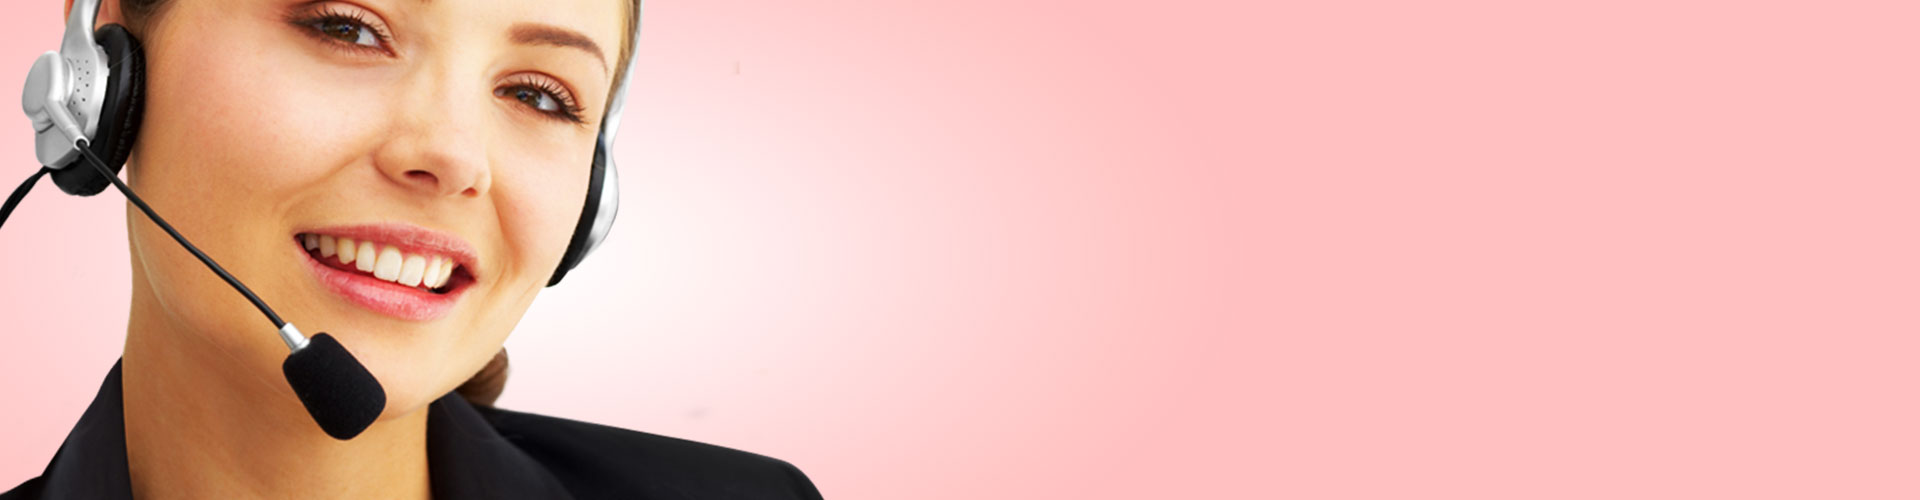
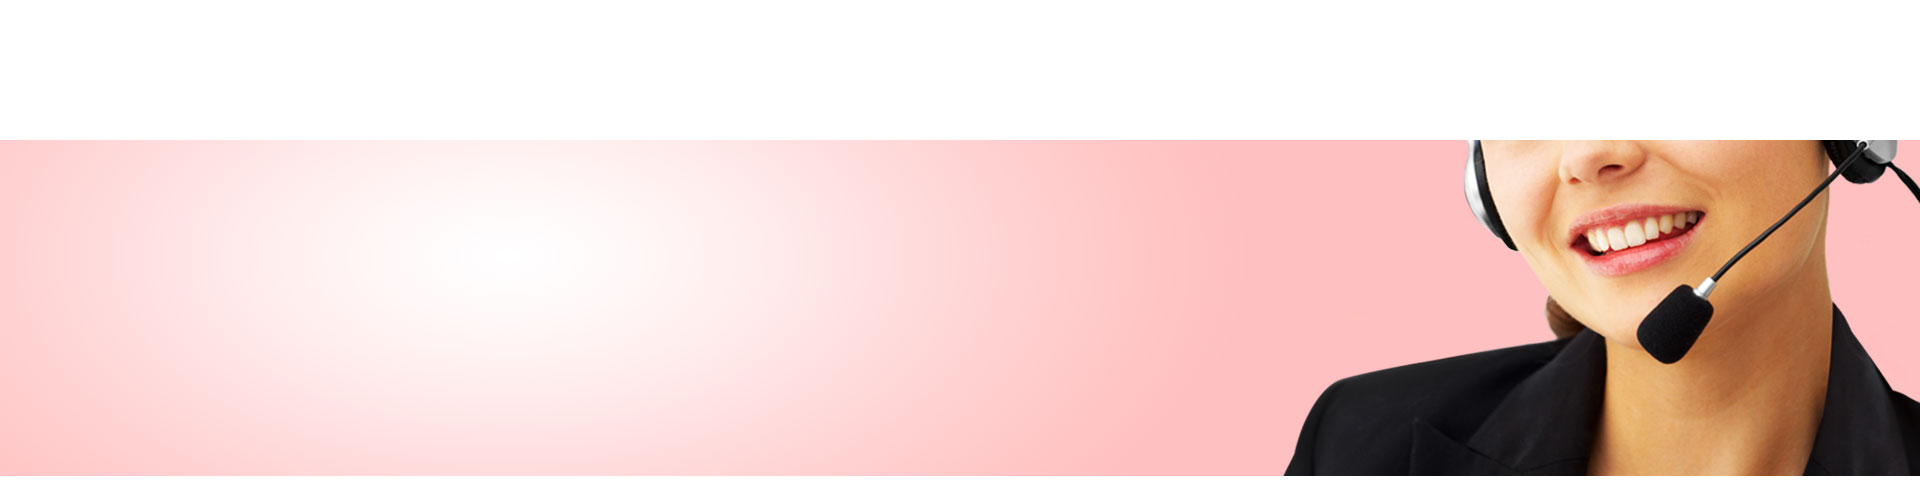
cheves en puerta, i hope, / 8:29 pm

diff --git a/sections/products-earrings.php b/sections/products-earrings.php
@@ -130,6 +130,63 @@
     <a href="images/products/earrings/ar-036.jpg" class="item" title="ar-036">
         <img src="images/products/earrings/ar-036.jpg">
     </a>
+    <a href="images/products/earrings/ar-050.jpg" class="item" title="ar-050">
+        <img src="images/products/earrings/ar-050.jpg">
+    </a>
+    <a href="images/products/earrings/ar-052.jpg" class="item" title="ar-052">
+        <img src="images/products/earrings/ar-052.jpg">
+    </a>
+    <a href="images/products/earrings/ar-054.jpg" class="item" title="ar-054">
+        <img src="images/products/earrings/ar-054.jpg">
+    </a>
+    <a href="images/products/earrings/ar-055.jpg" class="item" title="ar-055">
+        <img src="images/products/earrings/ar-055.jpg">
+    </a>
+    <a href="images/products/earrings/ar-056.jpg" class="item" title="ar-056">
+        <img src="images/products/earrings/ar-056.jpg">
+    </a>
+    <a href="images/products/earrings/ar-057.jpg" class="item" title="ar-057">
+        <img src="images/products/earrings/ar-057.jpg">
+    </a>
+    <a href="images/products/earrings/ar-058.jpg" class="item" title="ar-058">
+        <img src="images/products/earrings/ar-058.jpg">
+    </a>
+    <a href="images/products/earrings/ar-063.jpg" class="item" title="ar-063">
+        <img src="images/products/earrings/ar-063.jpg">
+    </a>
+    <a href="images/products/earrings/ar-063-ar-064.jpg" class="item" title="ar-063-ar-064">
+        <img src="images/products/earrings/ar-063-ar-064.jpg">
+    </a>
+    <a href="images/products/earrings/ar-064.jpg" class="item" title="ar-064">
+        <img src="images/products/earrings/ar-064.jpg">
+    </a>
+    <a href="images/products/earrings/ar-065.jpg" class="item" title="ar-065">
+        <img src="images/products/earrings/ar-065.jpg">
+    </a>
+    <a href="images/products/earrings/ar-071-ar-070-ar-069.jpg" class="item" title="ar-071-ar-070-ar-069">
+        <img src="images/products/earrings/ar-071-ar-070-ar-069.jpg">
+    </a>
+    <a href="images/products/earrings/ar-073.jpg" class="item" title="ar-073">
+        <img src="images/products/earrings/ar-073.jpg">
+    </a>
+    <a href="images/products/earrings/ar-075.jpg" class="item" title="ar-075">
+        <img src="images/products/earrings/ar-075.jpg">
+    </a>
+    <a href="images/products/earrings/ar-076-ar-064.jpg" class="item" title="ar-076-ar-064">
+        <img src="images/products/earrings/ar-076-ar-064.jpg">
+    </a>
+    <a href="images/products/earrings/ar-077.jpg" class="item" title="ar-077">
+        <img src="images/products/earrings/ar-077.jpg">
+    </a>
+    <a href="images/products/earrings/ar-078.jpg" class="item" title="ar-078">
+        <img src="images/products/earrings/ar-078.jpg">
+    </a>
+    <a href="images/products/earrings/ar-080.jpg" class="item" title="ar-080">
+        <img src="images/products/earrings/ar-080.jpg">
+    </a>
+    <a href="images/products/earrings/ar-084.jpg" class="item" title="ar-084">
+        <img src="images/products/earrings/ar-084.jpg">
+    </a>
 	
 </div>
 <div class="clear" style="height:80px;"></div>

diff --git a/sections/products-religious.php b/sections/products-religious.php
@@ -2,7 +2,7 @@
 <link rel="stylesheet" href="css/salvattore.css">
 
 <script src="js/parallax.js"></script>
-<div class="parallax-window" data-parallax="scroll" data-image-src="images/sample-header.jpg">
+<div class="parallax-window" data-parallax="scroll" data-image-src="images/header-religious.jpg">
   <h1>Religious</h1>  
 </div>
 
@@ -150,7 +150,6 @@
     </a>
     <a href="images/products/religious/ar-221.jpg" class="item" title="ar-221">
         <img src="images/products/religious/ar-221.jpg">
-
     </a>
 	
 </div>

diff --git a/sections/brochure.php b/sections/brochure.php
@@ -1,5 +1,5 @@
 <script src="js/parallax.js"></script>
-<div class="parallax-window" data-parallax="scroll" data-image-src="images/sample-header.jpg"></div>
+<div class="parallax-window" data-parallax="scroll" data-image-src="images/header-brochure.jpg"></div>
 <div class="whitespace" style="height:30px;"></div>
 
 <div class="container">

diff --git a/sections/products-pendants.php b/sections/products-pendants.php
@@ -2,7 +2,7 @@
 <link rel="stylesheet" href="css/salvattore.css">
 
 <script src="js/parallax.js"></script>
-<div class="parallax-window" data-parallax="scroll" data-image-src="images/sample-header.jpg">
+<div class="parallax-window" data-parallax="scroll" data-image-src="images/header-pendants.jpg">
   <h1>pendants</h1>  
 </div>
 
